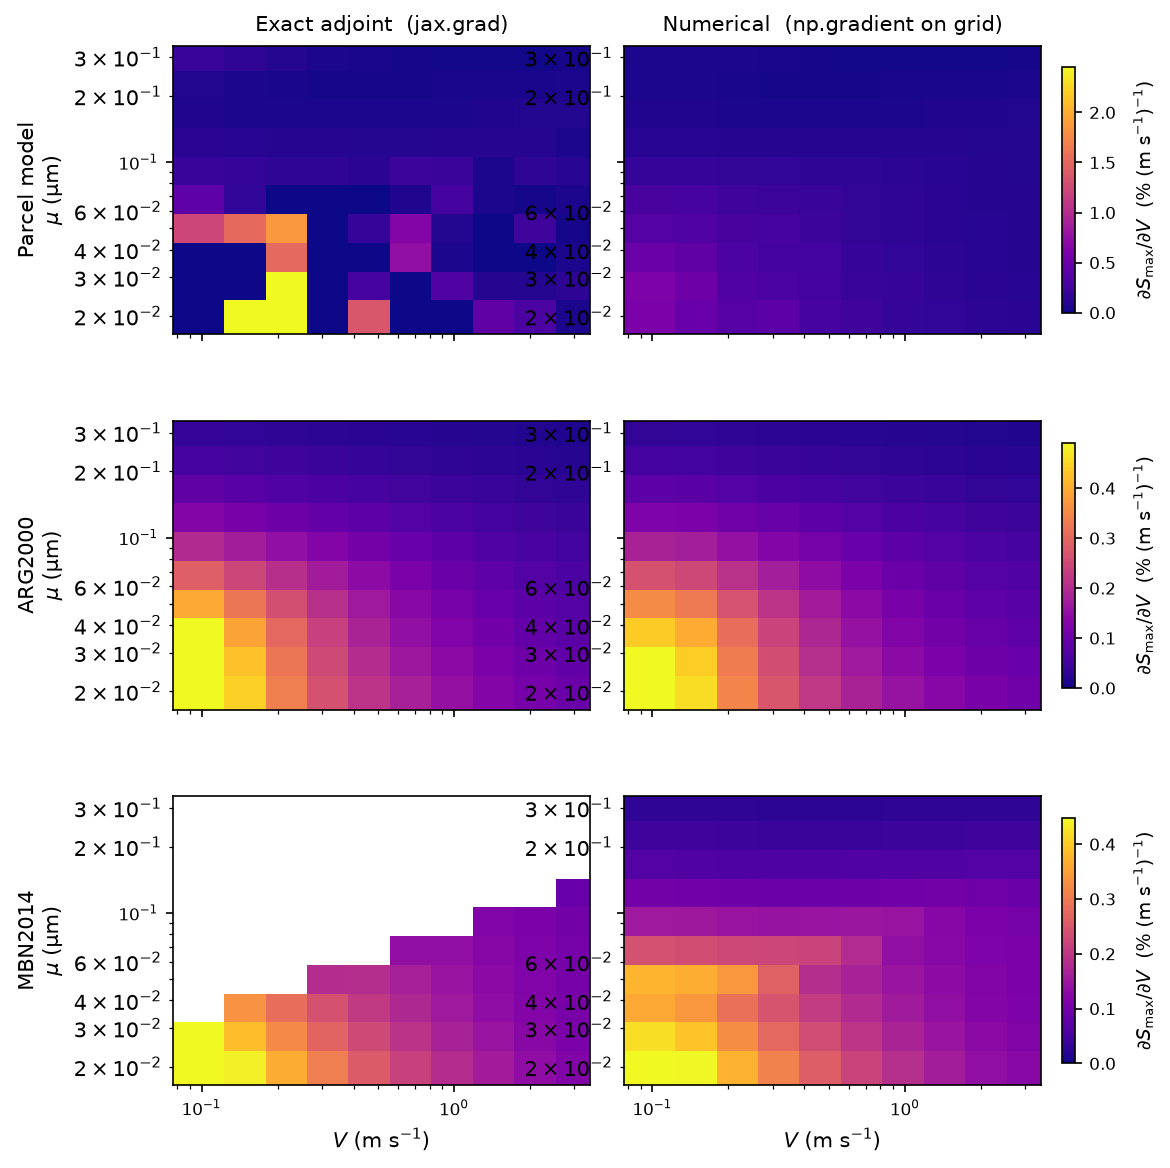
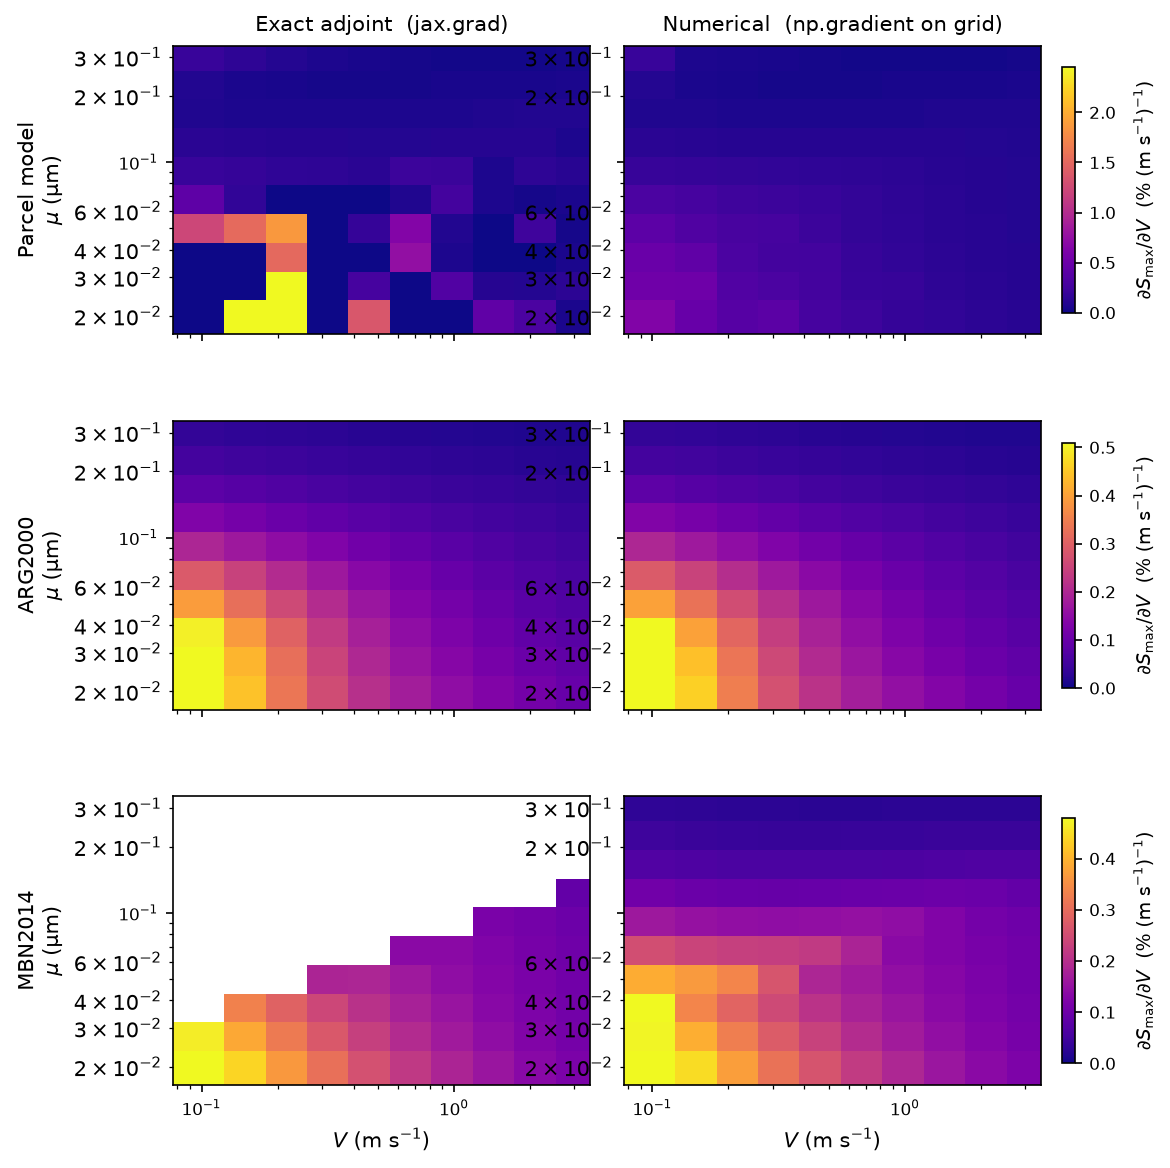
feat(sweep): extended-grid log-bilinear numerical gradient
Compute the forward parcel model (and ARG2000/MBN2014) on a grid that is
one node wider in each direction (log-spaced), so every original grid node
becomes an interior point and receives a second-order central difference
rather than a one-sided boundary difference.  The numerical d(Smax)/dV is
then interpolated from the extended gradient field back to the original
nodes using log-bilinear interpolation (RegularGridInterpolator in
log10(V)×log10(mu) space), matching the log-spaced structure of both axes.

This adds 44 extra forward-only parcel-model evaluations (outer ring of
the 12×12 extended grid) and replaces the two np.gradient one-liners with
_extend_grid_log / _num_grad_log_interp helpers.

diff --git a/examples/sensitivity_sweep.py b/examples/sensitivity_sweep.py
@@ -126,10 +126,50 @@ def _cache_valid(cached, V_grid, mu_grid, a) -> bool:
         return False
 
 
+def _extend_grid_log(grid: np.ndarray) -> np.ndarray:
+    """Extend a log-spaced 1-D grid by one node at each end, preserving spacing."""
+    log_g = np.log10(grid)
+    d = log_g[1] - log_g[0]
+    return 10 ** np.concatenate([[log_g[0] - d], log_g, [log_g[-1] + d]])
+
+
+def _num_grad_log_interp(
+    smax_ext: np.ndarray,
+    V_ext: np.ndarray,
+    mu_ext: np.ndarray,
+    V_grid: np.ndarray,
+    mu_grid: np.ndarray,
+) -> np.ndarray:
+    """d(Smax)/d(V) via central FD on extended grid, log-bilinear interp to original nodes.
+
+    Central differences on the (n_V+2)×(n_μ+2) extended grid give second-order
+    accuracy at every original node (none sit on a boundary any more).
+    Interpolation is bilinear in log(V)×log(μ) space, matching the log-spaced grids.
+    """
+    from scipy.interpolate import RegularGridInterpolator
+
+    dsmax_dV_ext = np.gradient(smax_ext, V_ext, axis=0)
+    interp = RegularGridInterpolator(
+        (np.log10(V_ext), np.log10(mu_ext)),
+        dsmax_dV_ext,
+        method="linear",
+        bounds_error=False,
+        fill_value=None,
+    )
+    coords = np.array([[np.log10(V), np.log10(mu)] for V in V_grid for mu in mu_grid])
+    return interp(coords).reshape(len(V_grid), len(mu_grid))
+
+
 def _compute(V_grid: np.ndarray, mu_grid: np.ndarray, a) -> dict:
     n_V, n_mu = len(V_grid), len(mu_grid)
     V_jax = jnp.asarray(V_grid, dtype=jnp.float64)
     mu_jax = jnp.asarray(mu_grid, dtype=jnp.float64)
+
+    # Extended grids (one extra node in each direction) for numerical FD.
+    V_ext = _extend_grid_log(V_grid)
+    mu_ext = _extend_grid_log(mu_grid)
+    V_ext_jax = jnp.asarray(V_ext, dtype=jnp.float64)
+    mu_ext_jax = jnp.asarray(mu_ext, dtype=jnp.float64)
 
     print(f"\nGrid: {n_V} × {n_mu}  (V ∈ [{_V_MIN}, {_V_MAX}] m/s,  μ ∈ [{_MU_MIN}, {_MU_MAX}] µm)")
     print(f"Aerosol: N = {a.N:.0f} cm⁻³, σ = {a.sigma}, κ = {a.kappa}\n")
@@ -169,16 +209,18 @@ def _compute(V_grid: np.ndarray, mu_grid: np.ndarray, a) -> dict:
     t0 = time.perf_counter()
     smax_arg = np.array(_grid2(_smax_arg)(V_jax, mu_jax))
     dsmax_dV_arg_ex = np.array(_dV_grid2(_smax_arg)(V_jax, mu_jax))
+    smax_arg_ext = np.array(_grid2(_smax_arg)(V_ext_jax, mu_ext_jax))
     print(f"{time.perf_counter() - t0:.1f}s")
 
     print("MBN2014 … ", end="", flush=True)
     t0 = time.perf_counter()
     smax_mbn = np.array(_grid2(_smax_mbn)(V_jax, mu_jax))
     dsmax_dV_mbn_ex = np.array(_dV_grid2(_smax_mbn)(V_jax, mu_jax))
+    smax_mbn_ext = np.array(_grid2(_smax_mbn)(V_ext_jax, mu_ext_jax))
     print(f"{time.perf_counter() - t0:.1f}s")
 
-    dsmax_dV_arg_num = np.gradient(smax_arg, V_grid, axis=0)
-    dsmax_dV_mbn_num = np.gradient(smax_mbn, V_grid, axis=0)
+    dsmax_dV_arg_num = _num_grad_log_interp(smax_arg_ext, V_ext, mu_ext, V_grid, mu_grid)
+    dsmax_dV_mbn_num = _num_grad_log_interp(smax_mbn_ext, V_ext, mu_ext, V_grid, mu_grid)
 
     # ── Parcel model ──────────────────────────────────────────────────────────
     # accom is a physical constant, same for every model build.
@@ -251,7 +293,52 @@ def _compute(V_grid: np.ndarray, mu_grid: np.ndarray, a) -> dict:
             dsmax_dV_parcel_ex[i_V, i_mu] = g
             done += 1
 
-    dsmax_dV_parcel_num = np.gradient(smax_parcel, V_grid, axis=0)
+    # ── Extended-grid forward pass for numerical FD ───────────────────────────
+    # The original n_V×n_mu nodes sit exactly at [1:-1, 1:-1] in the extended
+    # grid. We only need to evaluate the parcel model on the outer ring (44 pts)
+    # and reuse smax_parcel for the interior, giving central differences at all
+    # original nodes (no boundary one-sided differences).
+    smax_parcel_ext = np.full((n_V + 2, n_mu + 2), np.nan)
+    smax_parcel_ext[1:-1, 1:-1] = smax_parcel
+
+    # Build list of outer-ring (ext_i, ext_j, V_val, mu_val) to evaluate.
+    outer: list[tuple[int, int, float, float]] = []
+    for j, mu_val in enumerate(mu_ext):          # top + bottom rows
+        outer.append((0, j, float(V_ext[0]), float(mu_val)))
+        outer.append((n_V + 1, j, float(V_ext[-1]), float(mu_val)))
+    for i, V_val in enumerate(V_grid):            # left + right columns (no corners)
+        outer.append((i + 1, 0, float(V_val), float(mu_ext[0])))
+        outer.append((i + 1, n_mu + 1, float(V_val), float(mu_ext[-1])))
+
+    print(f"\nExtended grid: {len(outer)} additional forward evaluations (no adjoint)")
+    for k, (ext_i, ext_j, V_val, mu_val) in enumerate(outer):
+        aerosol = pm.AerosolSpecies(
+            "sulfate",
+            pm.Lognorm(mu=mu_val, sigma=a.sigma, N=a.N),
+            kappa=a.kappa,
+            bins=_BINS,
+        )
+        mdl = pm.ParcelModel([aerosol], V=1.0, T0=a.T0, S0=_S0, P0=a.P0)
+        y0_j = jnp.asarray(mdl.y0, dtype=jnp.float64)
+        rd_j = jnp.asarray(mdl.args[0], dtype=jnp.float64)
+        ni_j = jnp.asarray(mdl.args[1], dtype=jnp.float64)
+        ka_j = jnp.asarray(mdl.args[2], dtype=jnp.float64)
+        V_j = jnp.float64(V_val)
+        ts_j = _ts_for_V(V_val)
+        print(f"  ext [{k + 1:02d}/{len(outer)}] V={V_val:.3f}  μ={mu_val:.5f}", end="", flush=True)
+        t0 = time.perf_counter()
+        try:
+            s = float(jax.block_until_ready(_fwd(V_j, y0_j, rd_j, ni_j, ka_j, ts_j)))
+        except Exception as exc:
+            print(f"  ✗ ({exc.__class__.__name__})")
+            s = np.nan
+        else:
+            print(f"  {time.perf_counter() - t0:.1f}s")
+        smax_parcel_ext[ext_i, ext_j] = s
+
+    dsmax_dV_parcel_num = _num_grad_log_interp(
+        smax_parcel_ext, V_ext, mu_ext, V_grid, mu_grid
+    )
 
     return {
         "V_grid": V_grid,